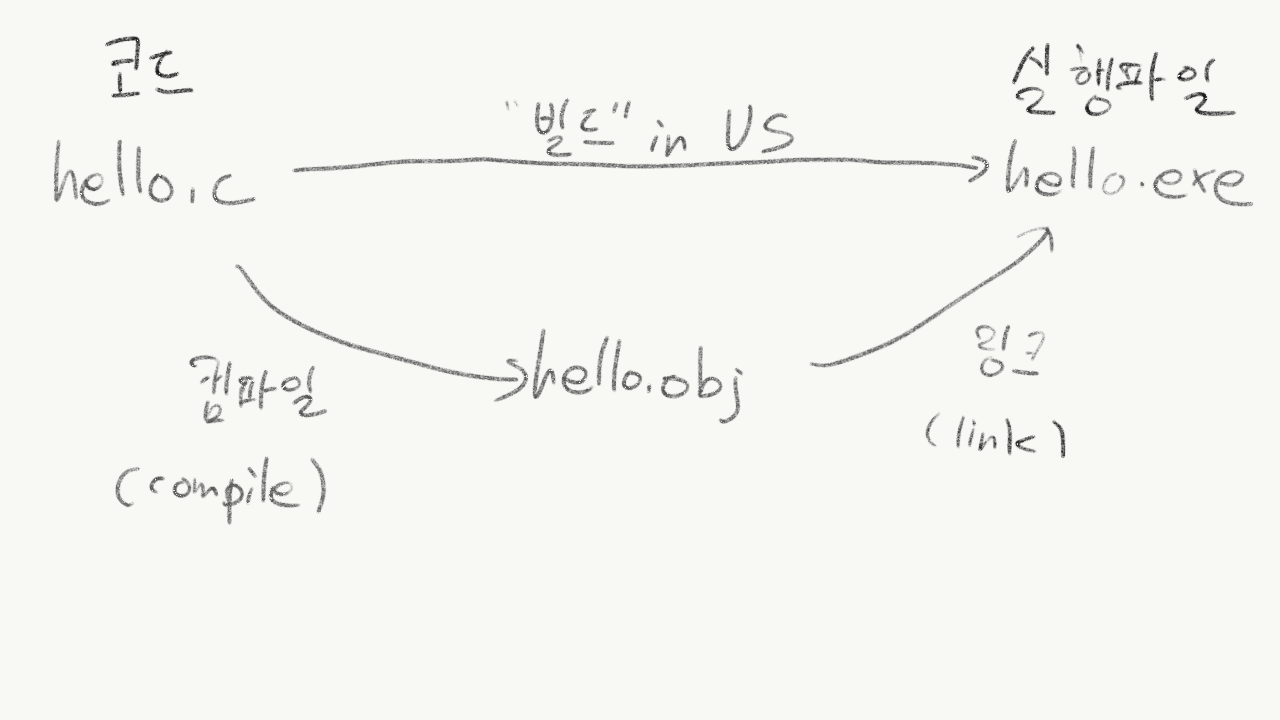
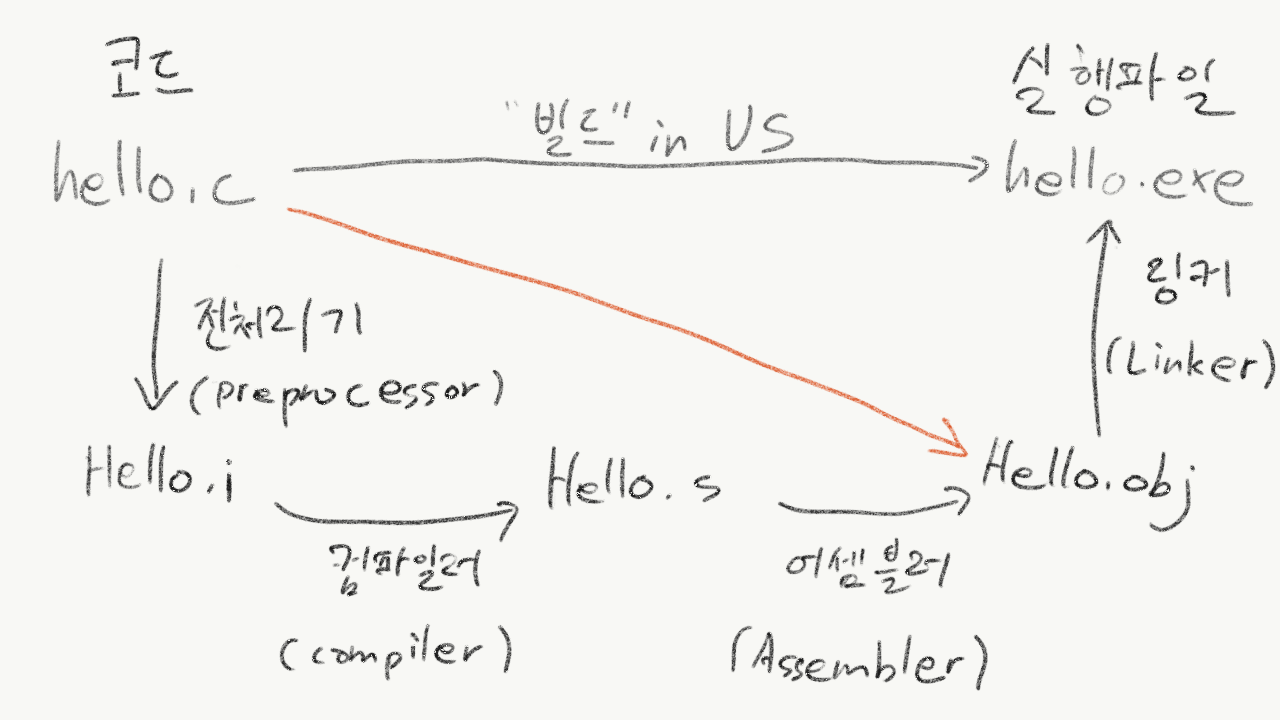
update var.

diff --git a/week01/DataType.c b/week01/DataType.c
@@ -1,0 +1,18 @@
+#include <stdio.h>
+int main(void){
+    // 변수의 기본(basic_var.md) 파일 참고!
+    int number; // 대표적인 정수형 데이터 타입 int
+    number = 10;
+    double real_num = 3.14; // 대표적인 실수형 데이터 타입 double
+    number = 3.14; // 정수형 데이터 타입 변수에 실수를 저장하면? 정수 부분만 저장하고 소수 부분은 버려서 저장한다. 이렇게 적으면 number에는 3이 저장된다.
+    char str = 'A'; // 대표적인 문자형 데이터 타입 char
+    /*
+    주의!
+    사실 문자형 데이터 타입은 정수형 데이터 타입이다.
+    문자를 컴퓨터가 이해할 수 있는 이진수로 표현하기에는 어렵기 때문에 사람들은 'ASCII 코드'라는 제도를 도입했다.
+    영문 대/소문자, 특수문자, 숫자 문자들을 각각 숫자로 대응하게 표를 만들어
+    실제로 저장하는 것은 그 숫자를 저장하게 하는 것이다.
+    자세한 사항은 구글에 'ASCII'를 검색해보자.
+    */
+    return 0;
+}

diff --git a/week01/no_comment/DataType.c b/week01/no_comment/DataType.c
@@ -1,0 +1,9 @@
+#include <stdio.h>
+int main(void){
+    int number;
+    number = 10;
+    double real_num = 3.14;
+    number = 3.14;
+    char str = 'A';
+    return 0;
+}

diff --git a/week01/whyC.md b/week01/whyC.md
@@ -1,15 +1,26 @@
 ## C언어의 기초
-### 왜? 굳이? 처음으로 C언어를 배우나요??
-**C언어는 현재 널리 퍼진 다른 언어들의 기반이 됩니다.**
-C언어가 깊게 들어가면 어렵지만 사실 이 이유 하나떄문에 C언어를 먼저 배우기도 합니다.
-현재 사용하고 있는 언어들은 모두 C언어의 문법(syntax)를 기반으로 만들어졌습니다.
-C언어를 기반으로 학습을 시작하면 C++, C#, Java, Object-C, Python, Javascript등 다른언어를 배울 때 더욱 쉽게 시작할 수 있습니다.
-C언어는 프로그래밍의 기초를 배우기에 적절한 언어입니다.
+### 왜? 굳이? 처음으로 C언어를 배우나요?
+**C언어는 현재 널리 퍼진 다른 언어들의 기반이 된다.**
+C언어가 깊게 들어가면 어렵지만 사실 이 이유 하나떄문에 C언어를 먼저 배우기도 한다.
+현재 사용하고 있는 언어들은 모두 C언어의 문법(syntax)를 기반으로 만들어졌다.
+C언어를 기반으로 학습을 시작하면 C++, C#, Java, Object-C, Python, Javascript등 다른언어를 배울 때 더욱 쉽게 시작할 수 있다.
+C언어는 프로그래밍의 기초를 배우기에 적절한 언어이다.
 
 ### C언어 프로그램은 어떤 과정으로 돌아가나요?
 ![컴파일](img/c_progress.png)
-사진을 통해 쉽게 이해해봅시다. 프로그래머는 C언어 코드를 확장자 c 파일(ex. hello.c)에 저장합니다.
-이를 실행하기 위해서는 실행 파일(ex. hello.exe) 로 변환을 시켜줘야 하는데, Visual Studio에선 이를 '**빌드**한다' 라고 이야기합니다.
-하지만 빌드 과정 안에는 두가지 단계가 있습니다.
-첫째로, 프로그래머가 작성한 코드 파일을 확장자 obj 파일(ex. hello.obj)로 변환하는 과정인 **컴파일**을 거쳐야 합니다.
-이때 만들어진 obj 파일은
+책에서는 간략하게 2단계로 표현이 되었지만, 더욱 자세한 과정을 사진을 통해 쉽게 이해해보자.
+()
+프로그래머는 C언어 코드를 확장자 c 파일(ex. hello.c)에 저장한다.
+이를 실행하기 위해서는 실행 파일(ex. hello.exe) 로 변환을 시켜줘야 하는데, Visual Studio에선 이를 '**빌드**한다' 라고 이야기한다.
+하지만 빌드 과정 안에는 네가지 단계가 있다.
+첫째로, 전처리기 (#include - [HelloWorld.c](HelloWorld.c) 8번째 줄 참고)에 들어있는 헤더 파일(확장자 h 파일 - ~~~.h)을 헤더 파일에 정의된 함수를 사용하기 위해 코드 파일에 추가하게 된다.
+이를 도와주는 도구가 '전처리기'(preprocessor)이다.
+전처리기를 거치면서 확장자 c 파일이 확장자 i 파일(hello.i)로 바뀐다.
+다음으로, 우리가 알고있는 C 언어 코드에서 컴퓨터가 알기 쉽게 코드가 적혀있는 **어셈블리어**로 변환하는 과정을 거친다.
+이를 도와주는 도구가 '**컴파일러**'(complier)이다.
+컴파일러를 거치면서 확장자 i 파일이 확장자 s 파일(hello.s)로 바뀐다.
+이어서, 어셈블리어로 이루어져 있는 확장자 s 파일을 오브젝트 파일 (hello.obj)로 바꾼다.
+이를 도와주는 도구가 '어셈블러'(assembler)라고 한다.
+마지막으로, 오브젝트 파일을 실행가능한 파일(윈도우에서는 exe 파일)로 바꾸면 실행할수 있다.
+이를 도와주는 도구가 '링커'(linker)라고 한다.
+사실은 더 자세히 들어가지 않기 위해 책에서도 **어셈블러**와 **링커**가 존재한다고 적혀있었다. 그렇게 깊숙하게 들어갈 필요는 없다.

diff --git a/week01/basic_var.md b/week01/basic_var.md
@@ -1,0 +1,50 @@
+## 변수의 기초
+
+데이터(자료)를 저장하고 활용하는 방법을 알아보자.
+수학에서의 미지수처럼, 프로그래밍에서는 자료를 저장할 때 **변수**를 활용한다.
+기본적으로 변수를 만드는 방법은 다음과 같다.
+```C
+int number;
+number = 10;
+```
+첫번째 줄은 변수를 '**선언**한다' 라고 이야기하고, 두번째 줄은 변수에 값(데이터, 자료)을 '**할당**한다' 라고 이야기한다.
+
+
+![변수의 선언과 할당](img/var_1.png)
+이 과정은 위 사진과 같이 설명할 수 있다. 선언 과정을 통해 number이라는 이름의 상자를 하나 만든다고 생각하자. 이때 그 상자의 위치를 가리키는 주소도 같이 생성된다고 생각하자. (주소에 관련된 자세한 이야기는 11장 - 메모리와 포인터에서 다룰 예정이다. 지금은 '주소가 있구나~'정도만 생각해두자.) 이후 할당 과정을 통해 데이터 값이 number라는 상자 안에 들어간다고 생각하자.
+
+
+![변수의 선언](img/var_2.png)
+변수를 선언할때에는, 변수의 데이터타입(자료형)과 변수의 이름을 적는다. 데이터타입에 대한 자세한 이야기는 [DataType.c](DataType.c)를 참고하자. 변수의 이름을 정할 때에는 다음과 같은 규칙이 존재한다.
+
+
+### 변수 네이밍 규칙
+    1. 오로지 영문 대/소문자, 숫자, _(언더바)만 사용 가능하다. 이외 문자는 불가능하다. (특수기호 불가능)
+    2. 첫 글자는 숫자가 될 수 없다.
+    3. 이름 중간에 공백 문자(스패이스바)를 넣으면 안된다.
+    4. C 언어 예약어를 사용하면 안된다.
+        예약어는 이후 기본 문법을 배울때 배울 명령어들이다. 이는 변수 이름을 짓던, 함수 이름을 짓던 사용하면 안된다.
+        예약어 목록은 [여기](http://araikuma.tistory.com/536)를 참고하자.
+
+
+또한 책에서는 변수의 이름을 지정할 때 조언하는 사항들을 적어두고 있다. 너무 긴 이름, 용도에 맞지 않는 이름, 의미없는 이름은 짖지 않는 것이 좋다.
+
+
+![변수의 할당](img/var_3.png)
+변수를 할당할때에는, C언어에서도 중요하고 프로그래밍 전체적으로 중요한 연산자가 하나 나온다. 수학에서 등호(=)는 주로 항등식을 표현하거나 방정식에서 왼쪽과 오른쪽이 '같다'를 표현하기 위해 사용한다. 다만, 프로그래밍에서 등호는 다르다. **오른쪽에 있는 값을 왼쪽에 '대입'**하는 연산자인 것이다. 이를 **대입연산자**라고 한다. 그러면 맨 처음 사진이 이해될 것이다. 오른쪽 값인 10을 왼쪽에 있는 number라는 변수에 넣는 것이다. 그러면 조금의 연습을 해 보자.
+```C
+int number;
+number = 10;
+int new_number;
+new_number = number;
+```
+이런 코드에서 ```new_number```의 값은 어떻게 될까? 잠깐 고민해보자. 답은 10이다. 2번째 줄에서 number에 10을 저장했으니, 4번째 줄에서는 new_number에 number의 값(10)을 넣어야 함으로 10이 저장된다.
+![변수의 할당 연습](img/var_4.png)
+
+
+추가적으로 이런 코드도 가능하다.
+```C
+int my, name, is, sungwoo;
+int we = 1, can, doit = 3;
+```
+여러 변수를 한꺼번에 선언도 가능하고, 여러 변수를 한꺼번에 선언도 하면서 할당할 수도 있다. 이때 주의해야 할 점은, 쉼표(,)로 연결된 변수들은 다 같은 데이터 타입을 가진다는 것이다. name, is, sungwoo 역시 int형 변수인 것이다.

diff --git a/README.md b/README.md
@@ -9,29 +9,7 @@
 ### 목차
 
 
-#### [1주차](https://github.com/cos18/c_study/tree/master/week01)
-- 환경 설정
-    - Windows : [Visual Studio 2017 Community 초기 설정하기 for C language](https://gist.github.com/cos18/557742b944207d1be0cbd1507d58ffe0)
-    - Mac : [C/C++ for Visual Studio Code (Preview)](https://code.visualstudio.com/docs/languages/cpp)
+#### [1주차](https://github.com/cos18/c_study/tree/master/week01) : Chapter 1, 2 - C 프로그래밍 입문, 자료형
 
 
-- 1장 - C 프로그래밍 입문
-    - [C언어의 기초](/week01/whyC.md)
-    - [HelloWorld.c](/week01/HelloWorld.c)
-    - [함수의 기초](/week01/basic_function.md) : 함수에 대한 구체적인 이야기는 10장에서 진행할 예정입니다.
-
-
-- 2장 - 자료형
-
-
-- [1주차 과제](/week01/hw_week1.md)
-
-
-#### [2주차](https://github.com/cos18/c_study/tree/master/week02)
-- 3장 - 표준 입출력 도구
-
-
-- 4장 - 연산자 (기본)
-
-
-- 2주차 과제
+#### [2주차](https://github.com/cos18/c_study/tree/master/week02) : Chapter 3, 4 - 표준 입출력 도구, 연산자(기본)

diff --git a/week01/README.md b/week01/README.md
@@ -9,5 +9,10 @@
     - [함수의 기초](/week01/basic_function.md) : 함수에 대한 구체적인 이야기는 10장에서 진행할 예정입니다.
 
 - 2장 - 자료형
+    - [변수의 기초](basic_var.md)
+    - [DataType.c](DataType.c)
+
+- 주석 없는 코드 파일
+    - [HelloWorld.c](no_comment/HelloWorld.c)
 
 - [1주차 과제](/week01/hw_week1.md)

diff --git a/week01/datatype_tmi.md b/week01/datatype_tmi.md
@@ -1,0 +1,3 @@
+## 자료형에 대한 사소하지만 사소하지 않은 사실들
+### 자료형의 크기
+컴퓨터의 사양의 한계가 있듯이 
